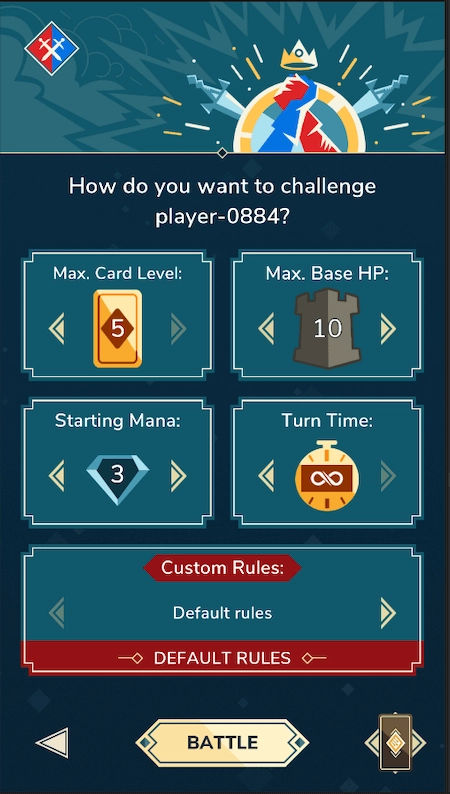
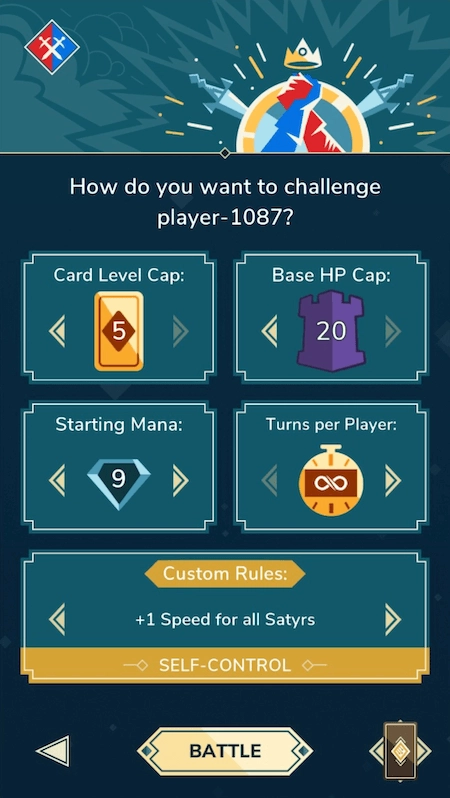
Update friendly matches images

Changed region(s): [[0.0, 0.0, 1.0, 1.0], [0.0622, 0.0, 0.1867, 0.0907], [0.0622, 0.9068, 0.1556, 0.9673]]

diff --git a/src/components/ChangelogOctober2020/index.js b/src/components/ChangelogOctober2020/index.js
@@ -160,35 +160,41 @@ export default React.memo(function ChangelogOctober2020(props) {
 
       <Title id='friendly-matches-settings'>Friendly matches settings</Title>
 
+      <p>
+        It has been announced and snapshot a few times on Discord over the last
+        few weeks so it’s no longer a surprise for many of you: advanced
+        friendly matches are coming!
+      </p>
+      <p>
+        When starting a friendly match with an in-game friend, it is now
+        possible to:
+      </p>
+      <ul>
+        <li>cap the level of cards (from 1 to 5)</li>
+        <li>cap the fortress level (from 1 to 20)</li>
+        <li>pick the starting mana (from 1 mana onwards)</li>
+        <li>set up a turn timer</li>
+        <li>apply Brawl modifiers</li>
+      </ul>
+
+      <p>
+        Not all these settings are available to all players. They get unlocked
+        as one progresses throughout the game.
+      </p>
+
       <Article.FullWidth>
         <Row desktopOnly wideGutter>
-          <Column width='1/3'>
-            <p>
-              It has been announced and snapshot a few times on Discord over the
-              last few weeks so it’s no longer a surprise for many of you:
-              advanced friendly matches are coming!
-            </p>
-            <p>
-              When starting a friendly match with an in-game friend, it is now
-              possible to:
-            </p>
-            <ul>
-              <li>cap the level of cards (from 1 to 5)</li>
-              <li>cap the fortress level (from 10 to 20)</li>
-              <li>pick the starting mana (from 3 mana onwards)</li>
-              <li>set up a turn timer</li>
-              <li>apply Brawl modifiers</li>
-            </ul>
-
-            <p>
-              Not all these settings are available to all players. They get
-              unlocked as one progresses throughout the game.
-            </p>
-          </Column>
           <Column width='1/3'>
             <img
               src='/assets/images/releases/friendly_matches_2.png'
               alt='A screenshot of the new advanced friendly matches options for a new player'
+              style={{ marginTop: 0 }}
+            />
+          </Column>
+          <Column width='1/3'>
+            <img
+              src='/assets/images/releases/friendly_matches_3.png'
+              alt='A screenshot of the new advanced friendly matches options for a high-level player'
               style={{ marginTop: 0 }}
             />
           </Column>
